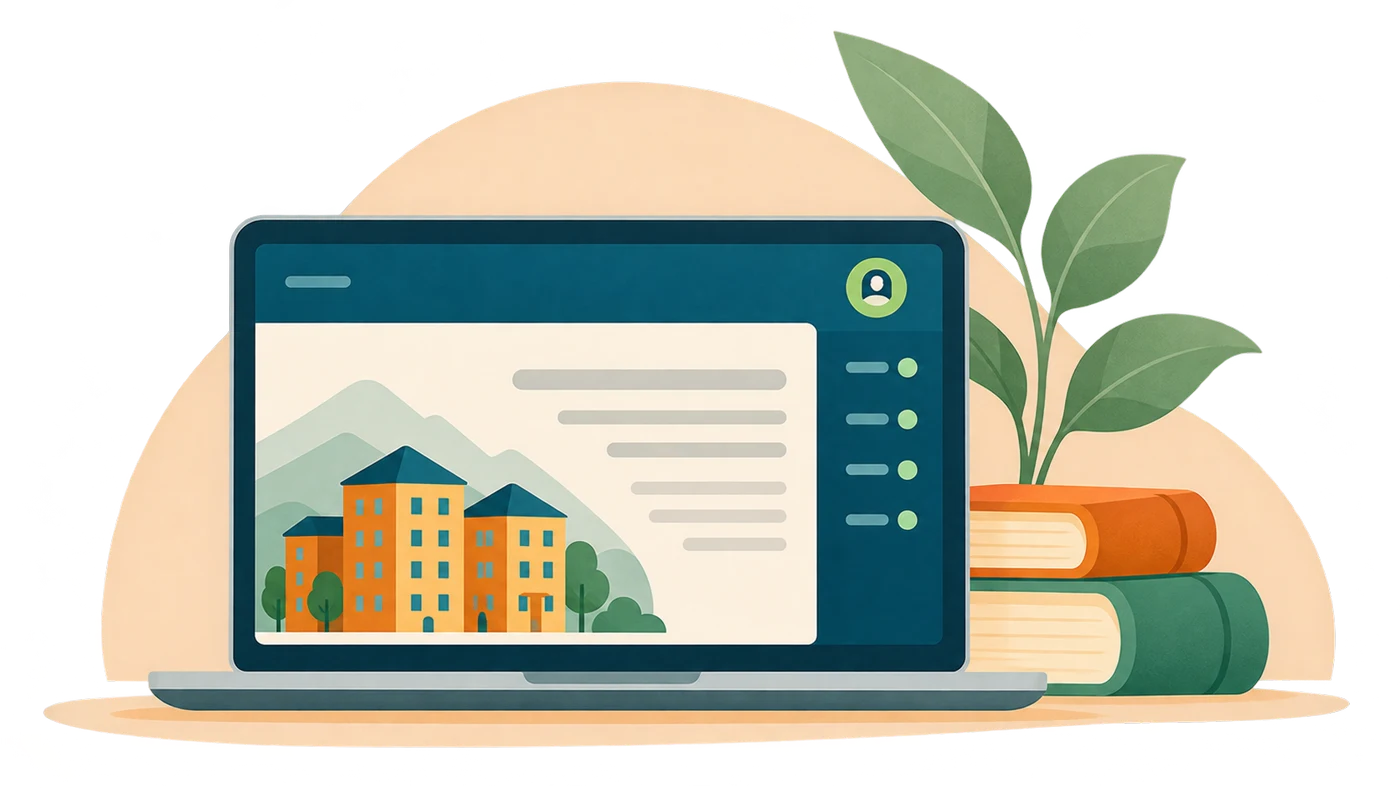
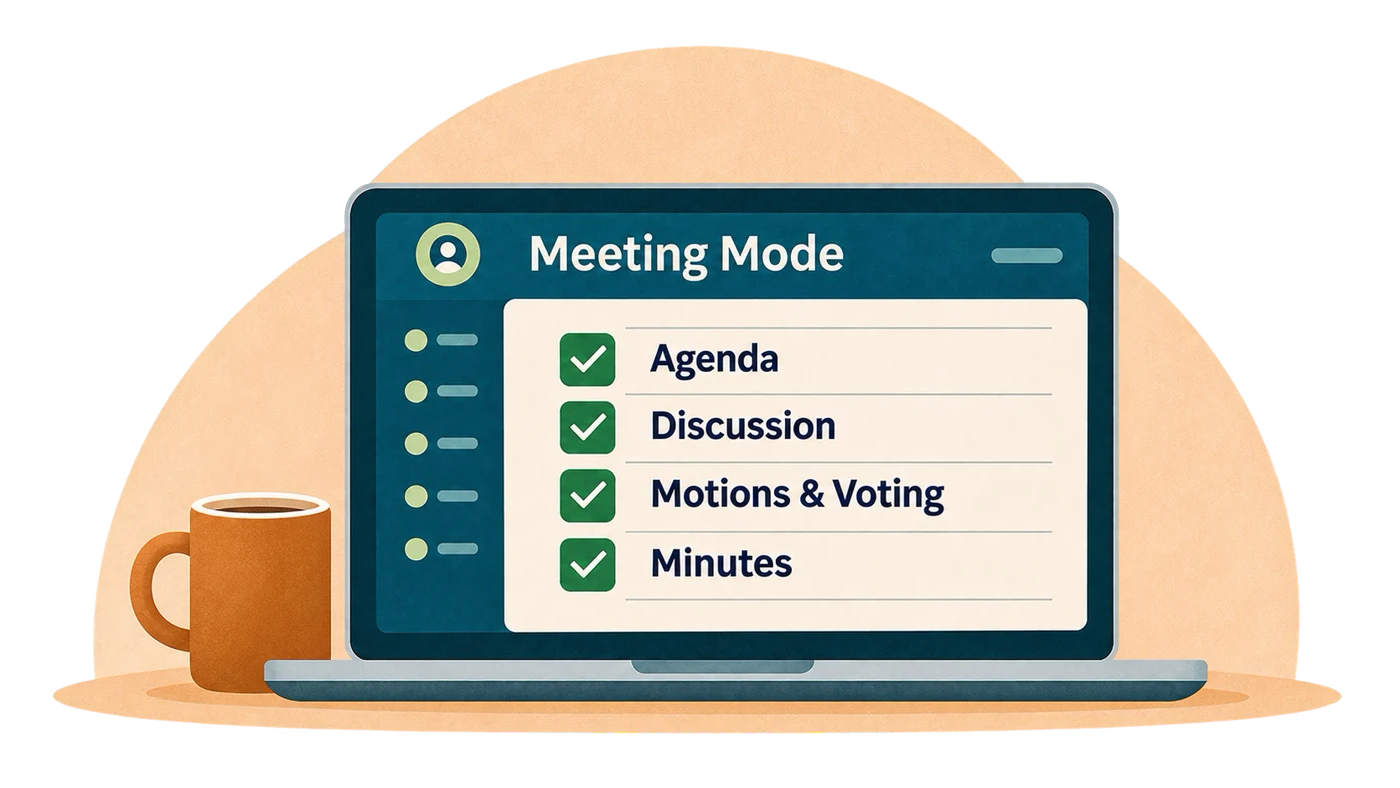
Hero as drawn, redrawn laptops, managers and closing illustrations
The hero illustration without the fade, clear of the headline; the new
training and Meeting Mode laptop illustrations (Meeting Mode with its
mug) with their screens measured for the live demos; the council member
at a laptop in the managers band; the closing illustration larger and
running to the page edge.

Claude-Session: https://claude.ai/code/session_011bdXNR69iqwsd2cqbdg9LF

diff --git a/app/globals.css b/app/globals.css
@@ -4545,3 +4545,48 @@ html {
   -webkit-mask-image: radial-gradient(ellipse 52% 100% at 55% 100%, #000 70%, transparent 100%);
   mask-image: radial-gradient(ellipse 52% 100% at 55% 100%, #000 70%, transparent 100%);
 }
+
+/* Revised illustrations (2026-11-25): the hero shown as drawn, with no
+   fade; the training and Meeting Mode laptops redrawn (Meeting Mode with
+   its mug, as in the design), their screens measured afresh; the closing
+   illustration larger. */
+.hero__media img {
+  -webkit-mask-image: none;
+  mask-image: none;
+}
+
+.device--training .device__screen {
+  left: 22.86%;
+  top: 27.63%;
+  width: 54.64%;
+  height: 53.13%;
+}
+
+.device--meeting .device__screen {
+  left: 26.93%;
+  top: 27.1%;
+  width: 50.87%;
+  height: 53.13%;
+}
+
+.closer {
+  grid-template-columns: minmax(0, 0.75fr) minmax(0, 1.25fr);
+}
+
+.closer__media {
+  margin-right: calc(-1 * (max(0px, (100vw - 1200px) / 2) + 24px));
+}
+
+@media (max-width: 900px) {
+  .closer {
+    grid-template-columns: minmax(0, 1fr);
+  }
+  .closer__media {
+    margin: 0 -24px;
+  }
+}
+
+/* Shown as drawn, the scene keeps clear of the headline. */
+.hero__media {
+  margin-left: 0;
+}

diff --git a/app/page.tsx b/app/page.tsx
@@ -98,7 +98,7 @@ const ART: Record<"hero" | "training" | "meeting" | "stratasphere" | "managers" 
     src: "/illustrations/managers.webp",
     width: 1400,
     height: 700,
-    alt: "Four people of different ages talking together and smiling.",
+    alt: "A council member at a laptop, smiling, with notebooks and coffee.",
   },
   closer: {
     src: "/illustrations/closer-look.webp",

diff --git a/design/2026-11-editorial-refresh/README.md b/design/2026-11-editorial-refresh/README.md
@@ -10,17 +10,17 @@ CSS, not a parallel system; the app is unchanged.
   Sign in, and one button, Start free training.
 - **Hero:** "Learn. Decide. Remember." with a short clay rule, the headline
   with *better* in clay italic, the two buttons, and the hero illustration
-  fading into the cream.
+  shown as drawn.
 - **The three tools:** alternating rows divided by thin rules, each with an
   illustrated laptop on one side, running out to the page edge, and the
-  words on the other, a thin clay rule between them. Meeting Mode uses the
-  training laptop mirrored. The live app demos (TrainingPreview, MeetingAgenda,
+  words on the other, a thin clay rule between them. Each laptop
+  illustration was drawn for its row (Meeting Mode with its mug). The live app demos (TrainingPreview, MeetingAgenda,
   StratasphereDemo) run on the laptops' screens: `components/Device.tsx`
   places each demo over the drawn screen (percentages per illustration in
   `.device--training` and so on) and scales it from three times the
   screen's width, so it runs as it does full size.
-- **For strata managers:** the one dark band, with the managers
-  illustration above the list.
+- **For strata managers:** the one dark band, with the illustration of a
+  council member at a laptop above the list.
 - **Pricing, plan comparison, and questions:** unchanged.
 - **Take a closer look:** the words, Request a demo and Start free training,
   and the meeting illustration. Request a demo opens the demo request form
@@ -40,8 +40,8 @@ CSS, not a parallel system; the app is unchanged.
 
 One set, made with an AI image tool whose terms allow commercial use, on
 transparent backgrounds, in `public/illustrations` at 1400px wide:
-`hero`, `training`, `meeting-mode`, `stratasphere`, `managers`,
-`closer-look`. People are warm and smiling; no lettering, buildings as a
+`hero`, `training`, `meeting-mode`, `stratasphere`, `managers` (the
+council member at a laptop), `closer-look`. People are warm and smiling; no lettering, buildings as a
 motif, or fake app screens (the laptops show the real demos). The
 original reference image from the brief is not used anywhere.
 
